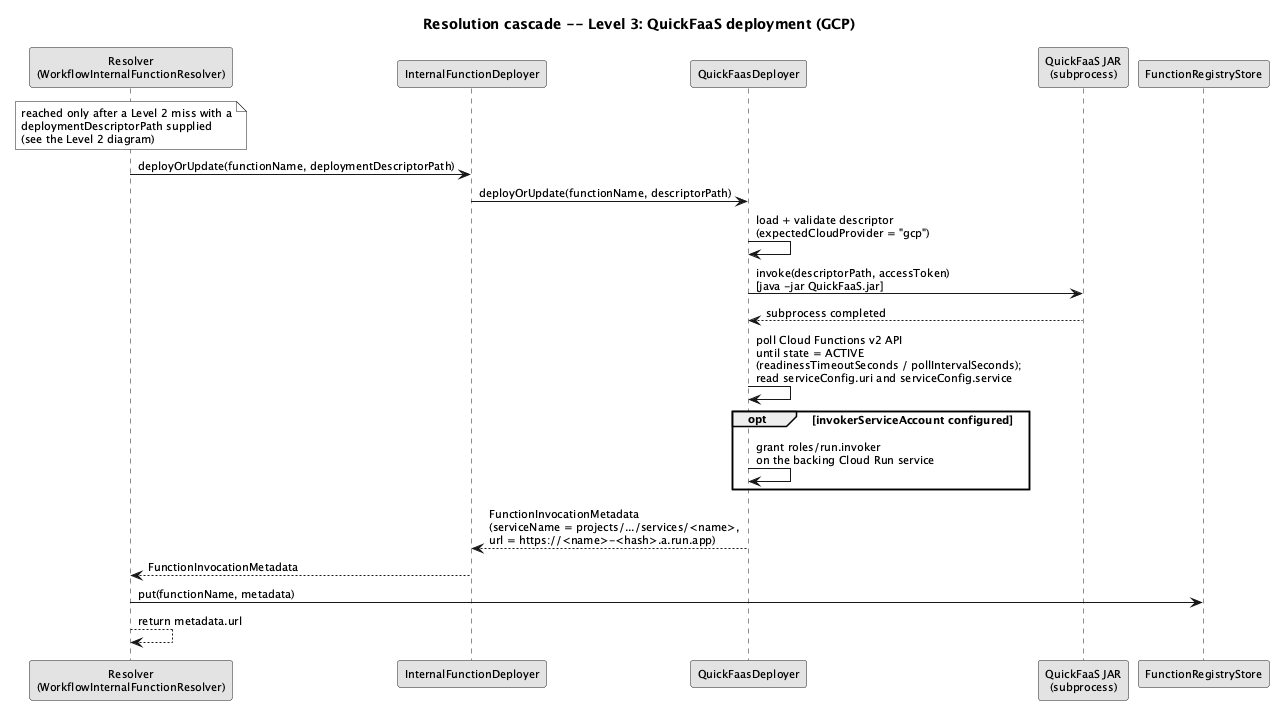
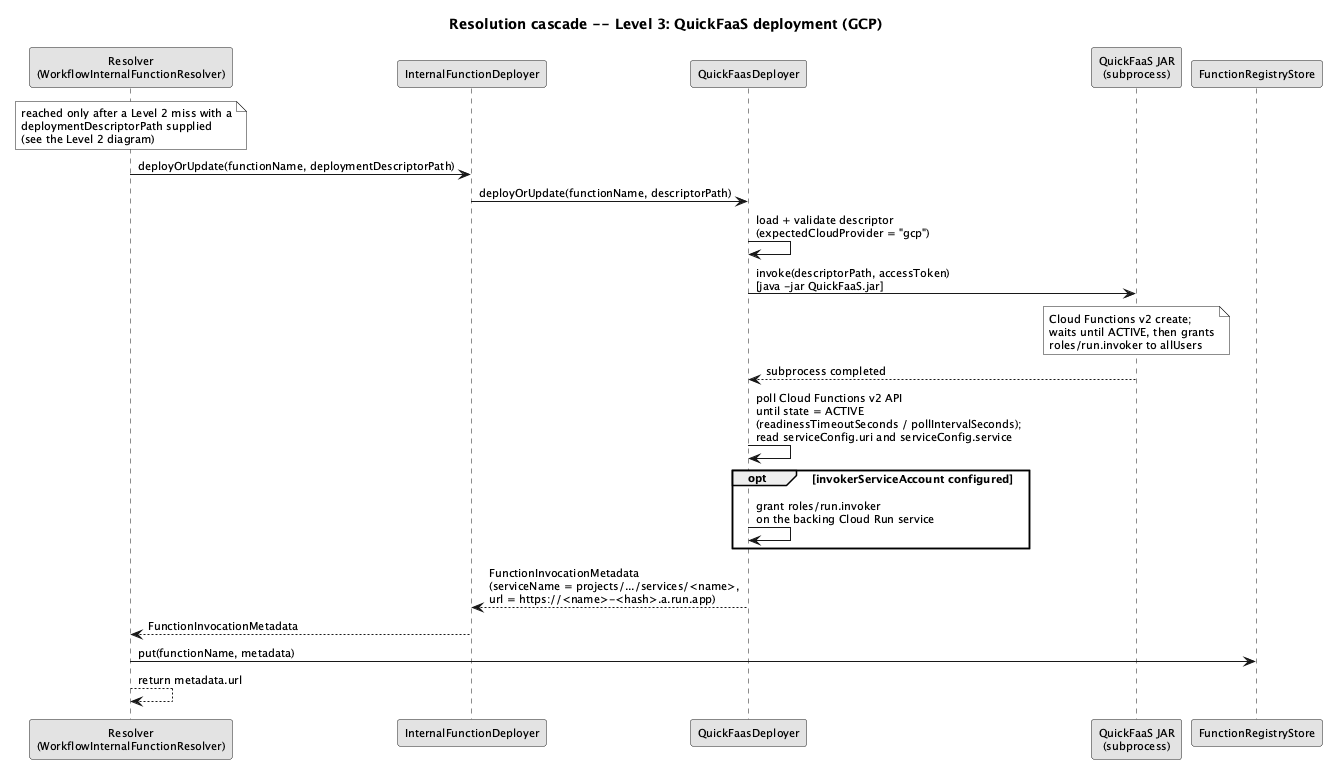
Fill in the smaller gaps between the diagrams, the code and the text
- Level 1 diagrams: add the registry's ambiguous-suffix exception and
  say that rediscovery checks one region for a "region/name" reference.
- Level 3 GCP diagram: note what QuickFaaS does inside the subprocess.
- aws-deploy-sequence: route the bootstrap through
  FunctionRegistryBootstrapper, and show the trust-policy repair and
  QuickFaaS's GetBucketLocation, GetFunction and SDK waiter.
- architecture-after: add the Workflows -> Cloud Run functions call.
- Chapter 3 and the Fig. A.2 caption: the single "region/functionRef"
  lookup applies to both providers.
- Regenerate the affected PNGs and log the changes in CHANGELOG.md.

diff --git a/dissertation/Chapters/chapter3.tex b/dissertation/Chapters/chapter3.tex
@@ -70,9 +70,9 @@ actual deployment is a last resort rather than a default.
   resource name of the Cloud Run service), so validation is one lookup in a known place rather than
   the search across every region that Level~2 performs.
   \item \textbf{Level~2 (Provider discovery).} On a registry miss, the target provider is queried
-  directly (a Cloud Run lookup across regions on GCP; on AWS, a \texttt{GetFunction} lookup across
-  every region enabled for the account, or a single call when the caller supplies the
-  fully-qualified \texttt{"region/functionRef"} form). If the
+  directly: a Cloud Run lookup across the project's regions on GCP, a \texttt{GetFunction} lookup
+  across every region enabled for the account on AWS, or, on either provider, a single lookup when
+  the caller supplies the fully-qualified \texttt{"region/functionRef"} form. If the
   function already exists (for instance, because it was deployed outside the integration), its
   metadata is recorded in the registry and used, again \emph{without} triggering a deployment.
   \item \textbf{Level~3 (QuickFaaS deployment).} Only when the function is absent from both the

diff --git a/dissertation/Chapters/appendix-cascade.tex b/dissertation/Chapters/appendix-cascade.tex
@@ -44,9 +44,9 @@ resolvers in \S\ref{subsec:store-internals}, one per level of the resolution cas
     \par (b) AWS
   \end{minipage}
   \caption{Level~2 (Provider discovery): the target Cloud Run service is searched for across the
-  project's regions on GCP (a); the target Lambda is searched for across every region enabled for
-  the account on AWS (b), or resolved with a single \texttt{GetFunction} call when the
-  fully-qualified \texttt{"region/functionRef"} form is used.}
+  project's regions on GCP (a) and the target Lambda across every region enabled for the account on
+  AWS (b); on both providers, the fully-qualified \texttt{"region/functionRef"} form is resolved
+  with a single lookup in that region.}
   \label{fig:resolution-cascade-level2}
 \end{figure}
 

diff --git a/dissertation/CHANGELOG.md b/dissertation/CHANGELOG.md
@@ -22,3 +22,20 @@ este ficheiro.)
 - Apêndice A (`appendix-cascade.tex`), Figs. A.1–A.3: as notas que citavam ficheiros `.puml`
   passam a remeter para "the Level N diagram" ou para o diagrama de sequência AWS do Cap. 4.
 - PNG regenerados com PlantUML 1.2026.8 e copiados para `images/`.
+
+### Diagramas: pontos menores da revisão
+
+- Cap. 3 (`chapter3.tex`), Nível 2 da cascata: a consulta única com `"region/functionRef"` passa a
+  valer para os dois fornecedores (antes lia-se só como caso AWS).
+- Cap. 3, Fig. `architecture-after`: nova seta Workflows → Cloud Run functions ("HTTP call (run.app
+  URL)"), simétrica da seta Step Functions → Lambda.
+- Cap. 4 (`chapter5.tex`), Fig. `aws-deploy-sequence`: o bootstrap passa pelo
+  `FunctionRegistryBootstrapper` (`LambdaFunctionsCatalog`); o passo IAM inclui a reparação da
+  *trust policy* (`UpdateAssumeRolePolicy`); os passos do QuickFaaS incluem `GetBucketLocation`, o
+  `GetFunction` inicial e o *waiter* do SDK.
+- Apêndice A (`appendix-cascade.tex`), Fig. A.1 (Nível 1, GCP e AWS): novo ramo para a exceção de
+  sufixo ambíguo no registo; a nova procura diz que consulta todas as regiões ou só a de
+  `"region/functionRef"`.
+- Apêndice A, legenda da Fig. A.2: a forma `"region/functionRef"` descrita para os dois fornecedores.
+- Apêndice A, Fig. A.3 (Nível 3, GCP): nota com o que o QuickFaaS faz no subprocesso (criação v2,
+  espera por `ACTIVE`, `roles/run.invoker` para `allUsers`).
